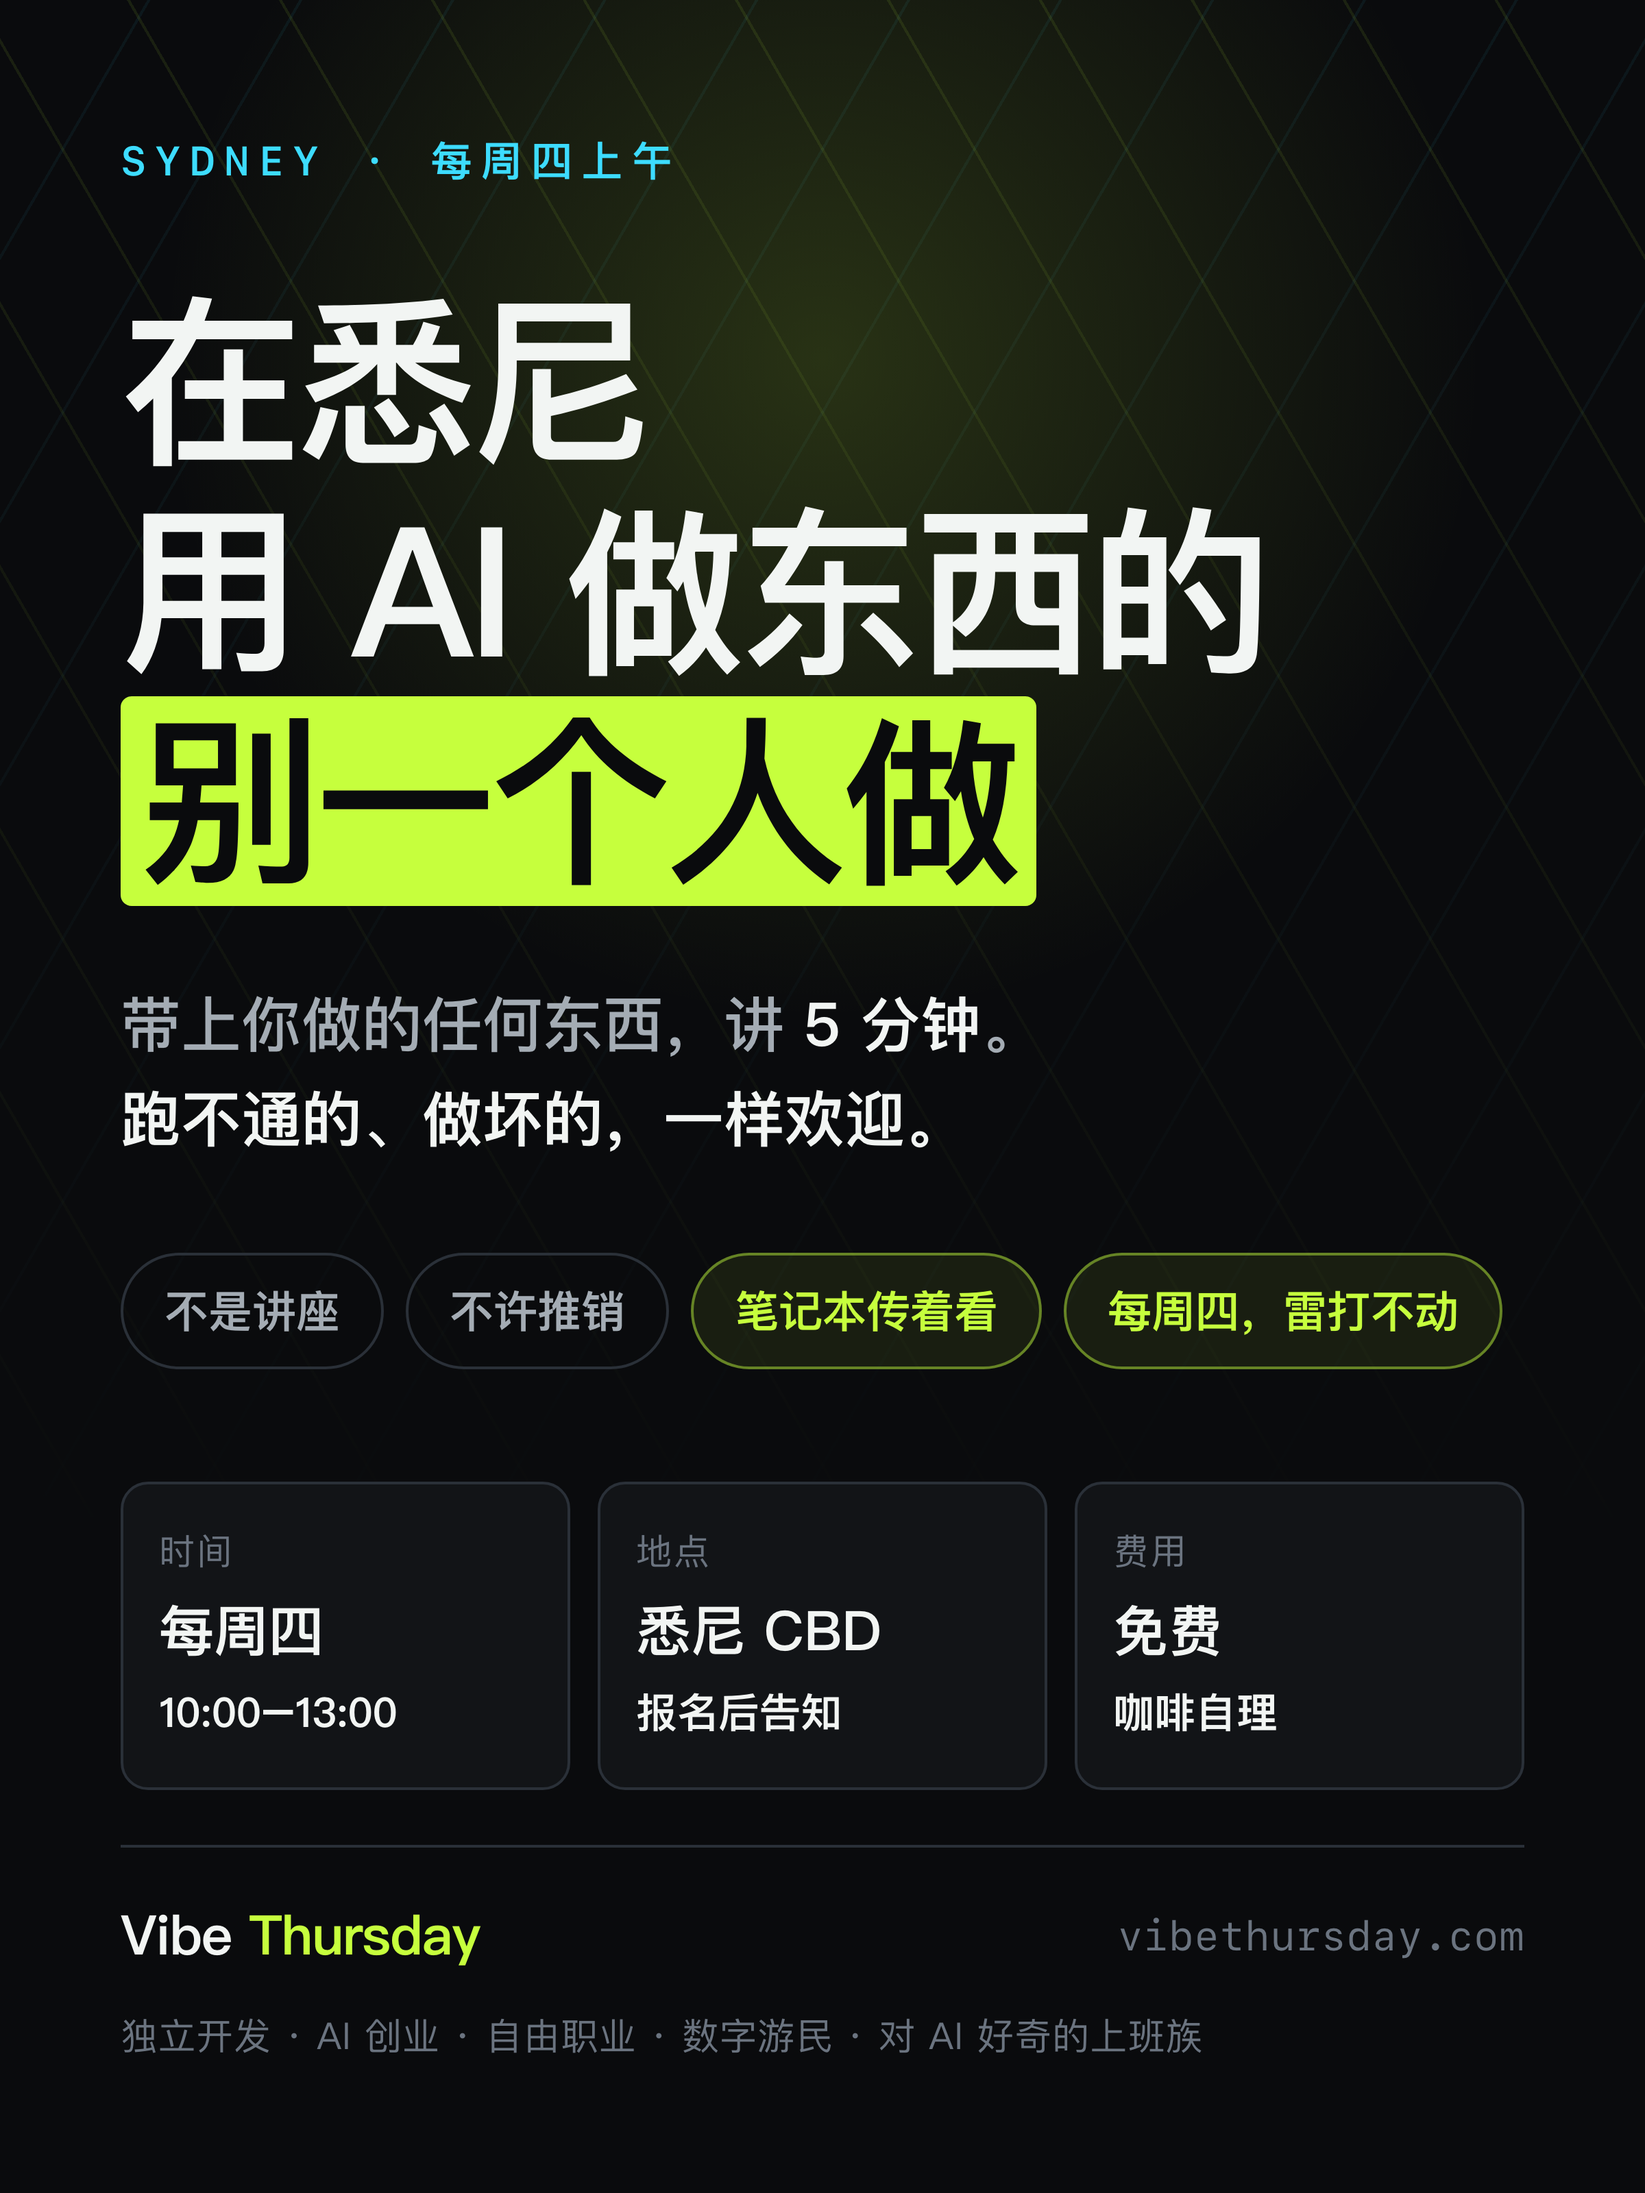
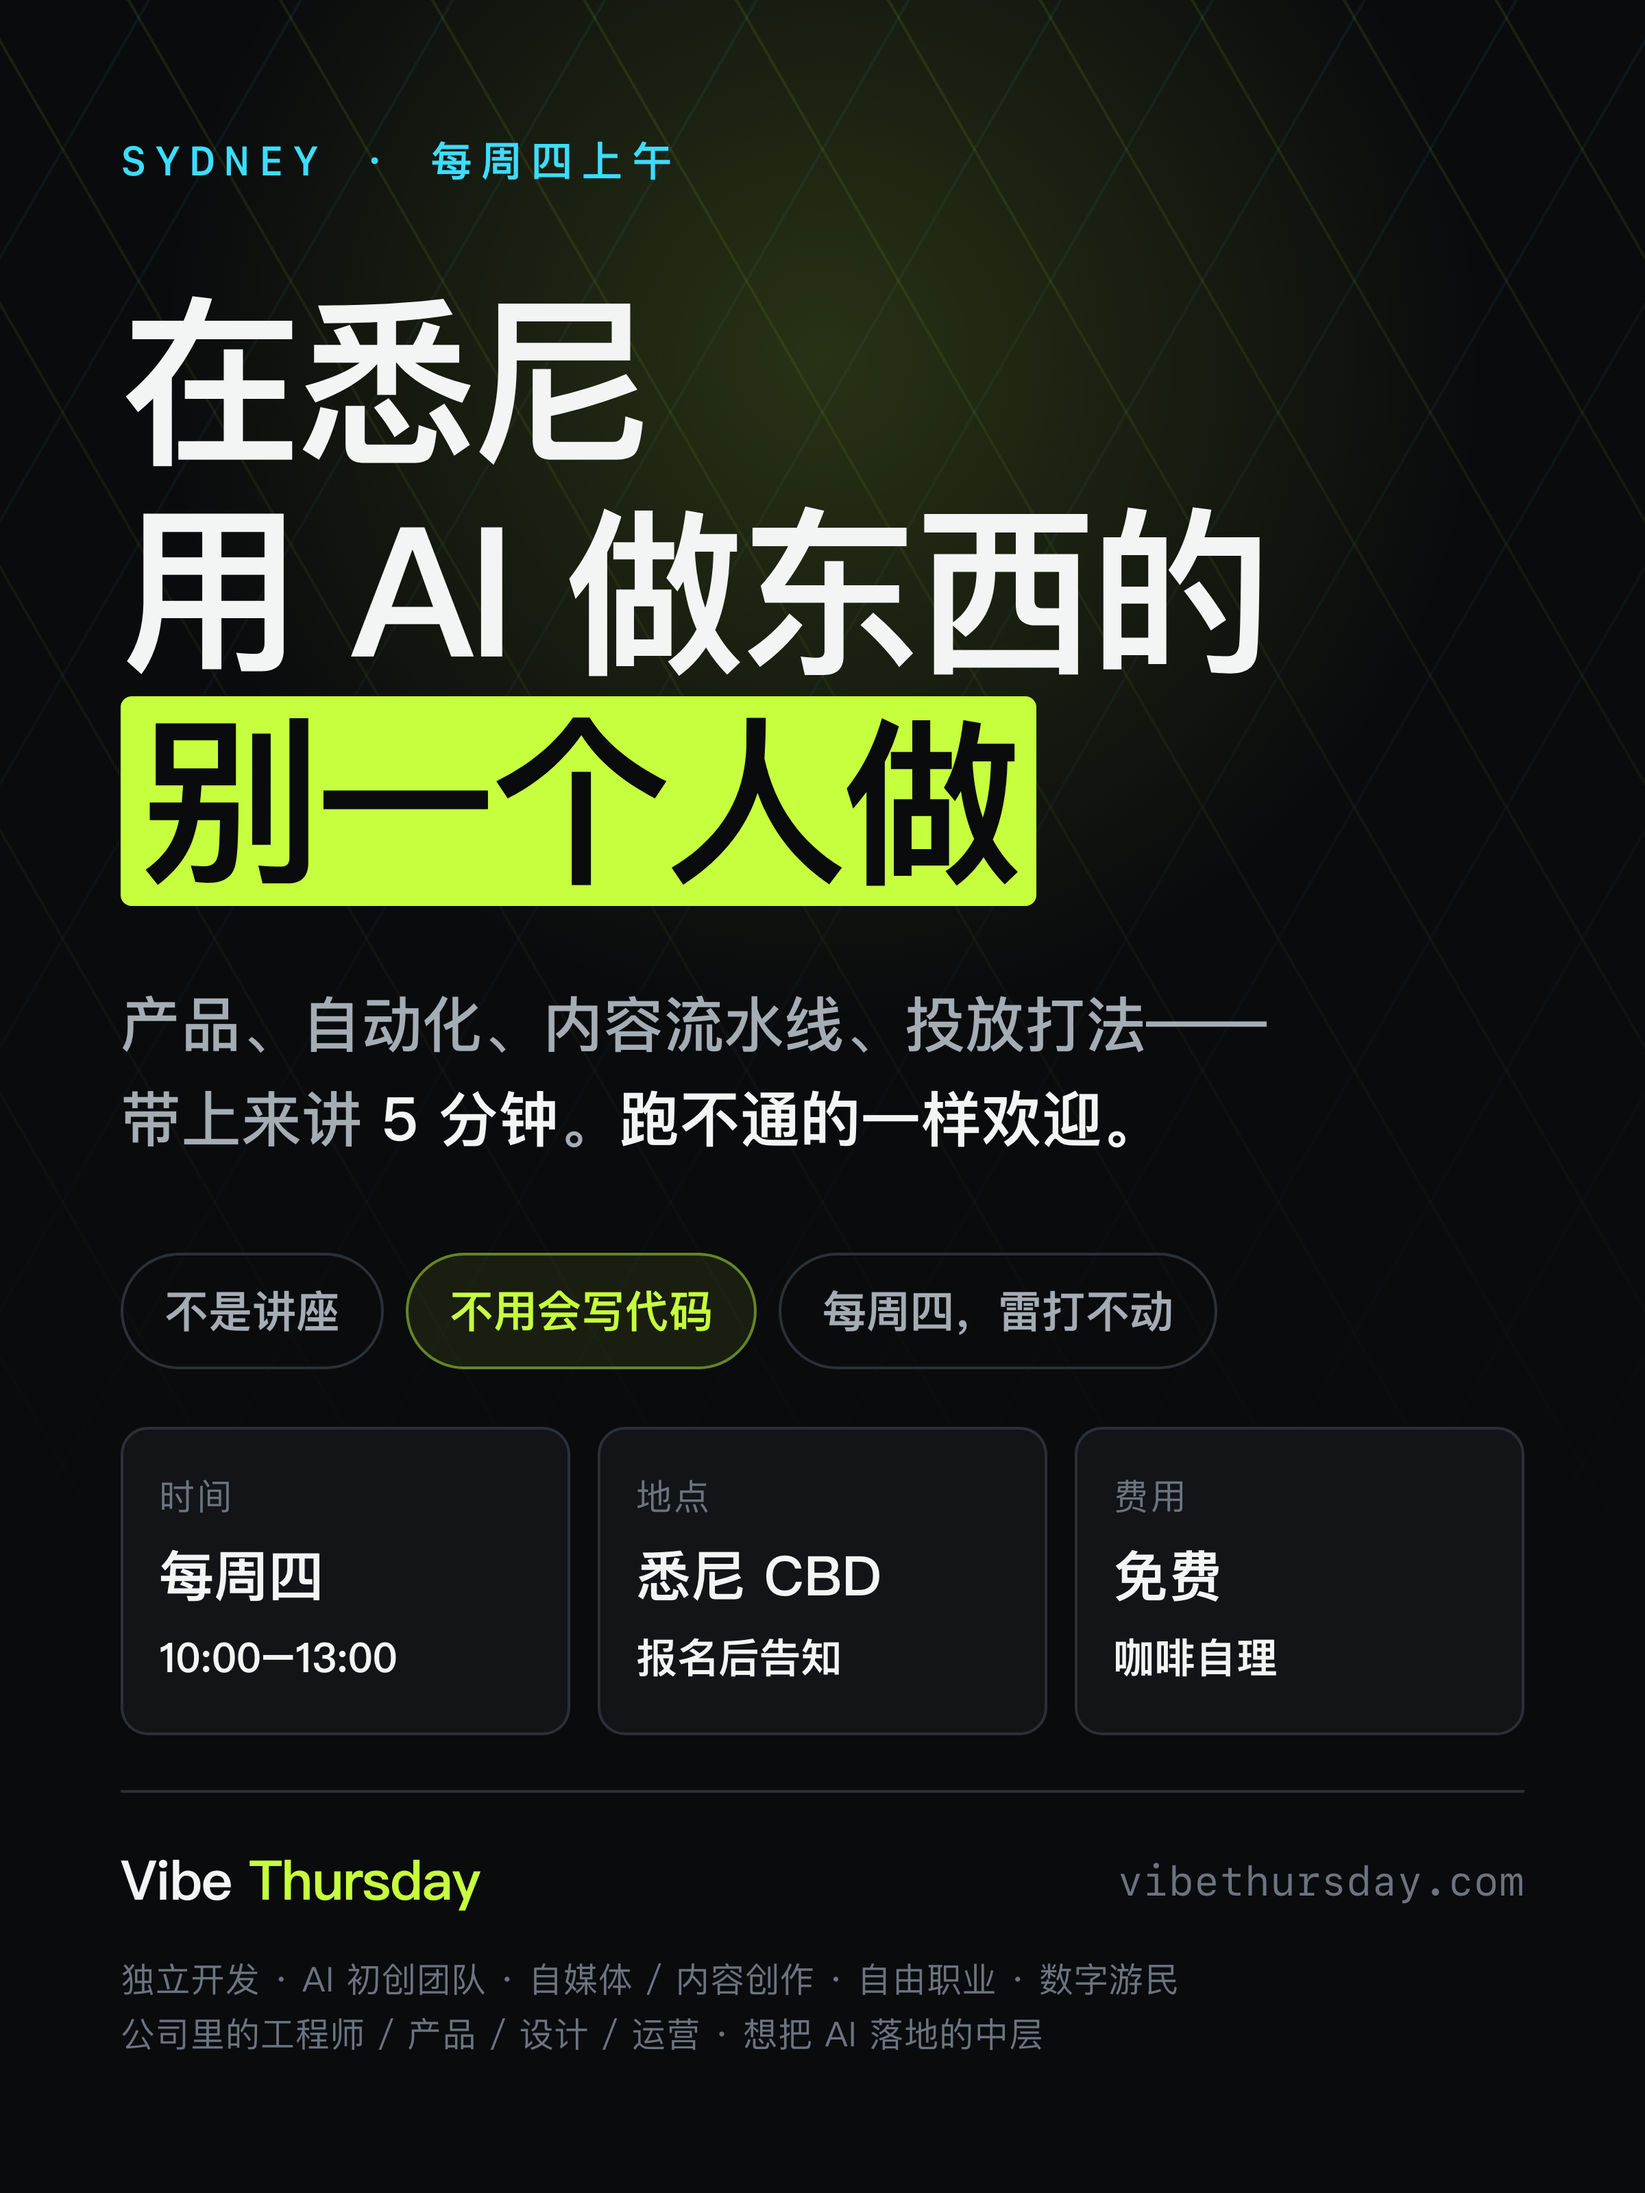
Widen the audience beyond people who ship software
The page listed creators under "who it's for", but everything around it read as
engineering: the hero's examples were a site, a script, an automation and a
video tool, and the poster's audience line omitted creators and media people
entirely. Someone running a content operation would scan that and conclude it
was not for them.

Examples now lead with non-software work — content and editing pipelines, ad
playbooks, prompt systems — and the audience list adds AI startup teams (not
just founders) alongside PMs, designers and marketers. A line under it states
outright that "building" is not limited to software.

The poster's "不许推销" chip also had to go: it directly contradicted the rule
rewritten in the previous commit. Replaced with "不用会写代码", which does the
inclusion work the poster was missing. Dropped to three chips so they hold one
line — four wrapped and ate the whitespace above the info cards.

diff --git a/src/lib/content.ts b/src/lib/content.ts
@@ -36,7 +36,7 @@ export const copy = {
       eyebrow: "SYDNEY · EVERY THURSDAY",
       title: "Vibe Thursday",
       subtitle: "悉尼 · 每周四上午的 AI 局",
-      lede: "带上你用 AI 做出来的任何东西——一个网站、一段脚本、一条自动化流程、一个剪片工具，甚至一个还没跑通的想法。5 分钟，讲给一屋子听得懂的人。",
+      lede: "带上你用 AI 做出来的任何东西——一个产品、一条自动化流程、一套选题或剪辑的流水线、一个投放打法、一套提示词，甚至一个还没跑通的想法。5 分钟，讲给一屋子听得懂的人。",
       facts: [
         { label: "时间", value: "每周四 10:00–13:00" },
         { label: "地点", value: "悉尼 CBD" },
@@ -72,13 +72,13 @@ export const copy = {
       title: "只要你真的在用 AI 做点什么，或者真的想开始。",
       groups: [
         "独立开发者",
-        "全职创业 / 在做自己的产品",
+        "AI 初创公司的创始人和团队",
+        "做 AI 内容的：自媒体、公众号、播客、短视频",
         "自由职业 / 数字游民",
-        "公司里对 AI 感兴趣的工程师",
+        "公司里的工程师、产品、设计、运营",
         "带团队、想把 AI 落到流程里的中层",
-        "AI 方向的自媒体和内容创作者",
       ],
-      note: "工作日上午本身就是筛选器。周四十点能出现的人，多半已经靠 AI 做出了点什么——这正是我们想先攒起来的那批人。",
+      note: "「做东西」不限于软件。一条内容流水线、一个自动化工作流、一套提示词、一个投放打法，都算。工作日上午本身就是筛选器——周四十点能出现的人，多半已经靠 AI 做出了点什么。",
     },
 
     schedule: {
@@ -235,7 +235,7 @@ export const copy = {
       eyebrow: "SYDNEY · EVERY THURSDAY",
       title: "Vibe Thursday",
       subtitle: "Sydney · every Thursday morning",
-      lede: "Bring whatever you made with AI — a site, a script, an automation, a video tool, or an idea that does not work yet. Five minutes, to a room that gets it.",
+      lede: "Bring whatever you made with AI — a product, an automation, a content or editing pipeline, an ad playbook, a prompt system, or an idea that does not work yet. Five minutes, to a room that gets it.",
       facts: [
         { label: "When", value: "Thursdays, 10am–1pm" },
         { label: "Where", value: "Sydney CBD" },
@@ -271,13 +271,13 @@ export const copy = {
       title: "Anyone actually building with AI, or seriously about to start.",
       groups: [
         "Indie developers",
-        "Founders working on their own product",
+        "AI startup founders and their teams",
+        "Creators: newsletters, podcasts, video, social",
         "Freelancers and digital nomads",
-        "Engineers curious about AI",
-        "Team leads trying to get AI into real workflows",
-        "Creators and writers covering AI",
+        "Engineers, PMs, designers, marketers",
+        "Team leads getting AI into real workflows",
       ],
-      note: "A weekday morning is the filter. People who can show up at 10am on a Thursday have usually already made AI work for them — that is the group we want in the room first.",
+      note: "\"Building\" is not limited to software. A content pipeline, an automation, a prompt system, an ad playbook — all of it counts. A weekday morning is the filter: people who can show up at 10am on a Thursday have usually already made AI work for them.",
     },
 
     schedule: {

diff --git a/art/xhs-poster.html b/art/xhs-poster.html
@@ -163,8 +163,9 @@
   }
 
   .who {
-    margin-top: 26px;
-    font-size: 27px;
+    margin-top: 24px;
+    font-size: 25px;
+    line-height: 1.6;
     color: #6b7480;
     letter-spacing: .02em;
   }
@@ -184,15 +185,14 @@
     </h1>
 
     <p class="sub">
-      带上你做的任何东西，讲 <b>5 分钟</b>。<br>
-      <b>跑不通的、做坏的，一样欢迎。</b>
+      产品、自动化、内容流水线、投放打法——<br>
+      带上来讲 <b>5 分钟</b>。<b>跑不通的一样欢迎。</b>
     </p>
 
     <div class="chips">
       <span class="chip">不是讲座</span>
-      <span class="chip">不许推销</span>
-      <span class="chip on">笔记本传着看</span>
-      <span class="chip on">每周四，雷打不动</span>
+      <span class="chip on">不用会写代码</span>
+      <span class="chip">每周四，雷打不动</span>
     </div>
 
     <div class="spacer"></div>
@@ -217,7 +217,10 @@
       <div class="url">vibethursday.com</div>
     </div>
 
-    <div class="who">独立开发 · AI 创业 · 自由职业 · 数字游民 · 对 AI 好奇的上班族</div>
+    <div class="who">
+      独立开发 · AI 初创团队 · 自媒体 / 内容创作 · 自由职业 · 数字游民<br>
+      公司里的工程师 / 产品 / 设计 / 运营 · 想把 AI 落地的中层
+    </div>
   </div>
 </body>
 </html>
